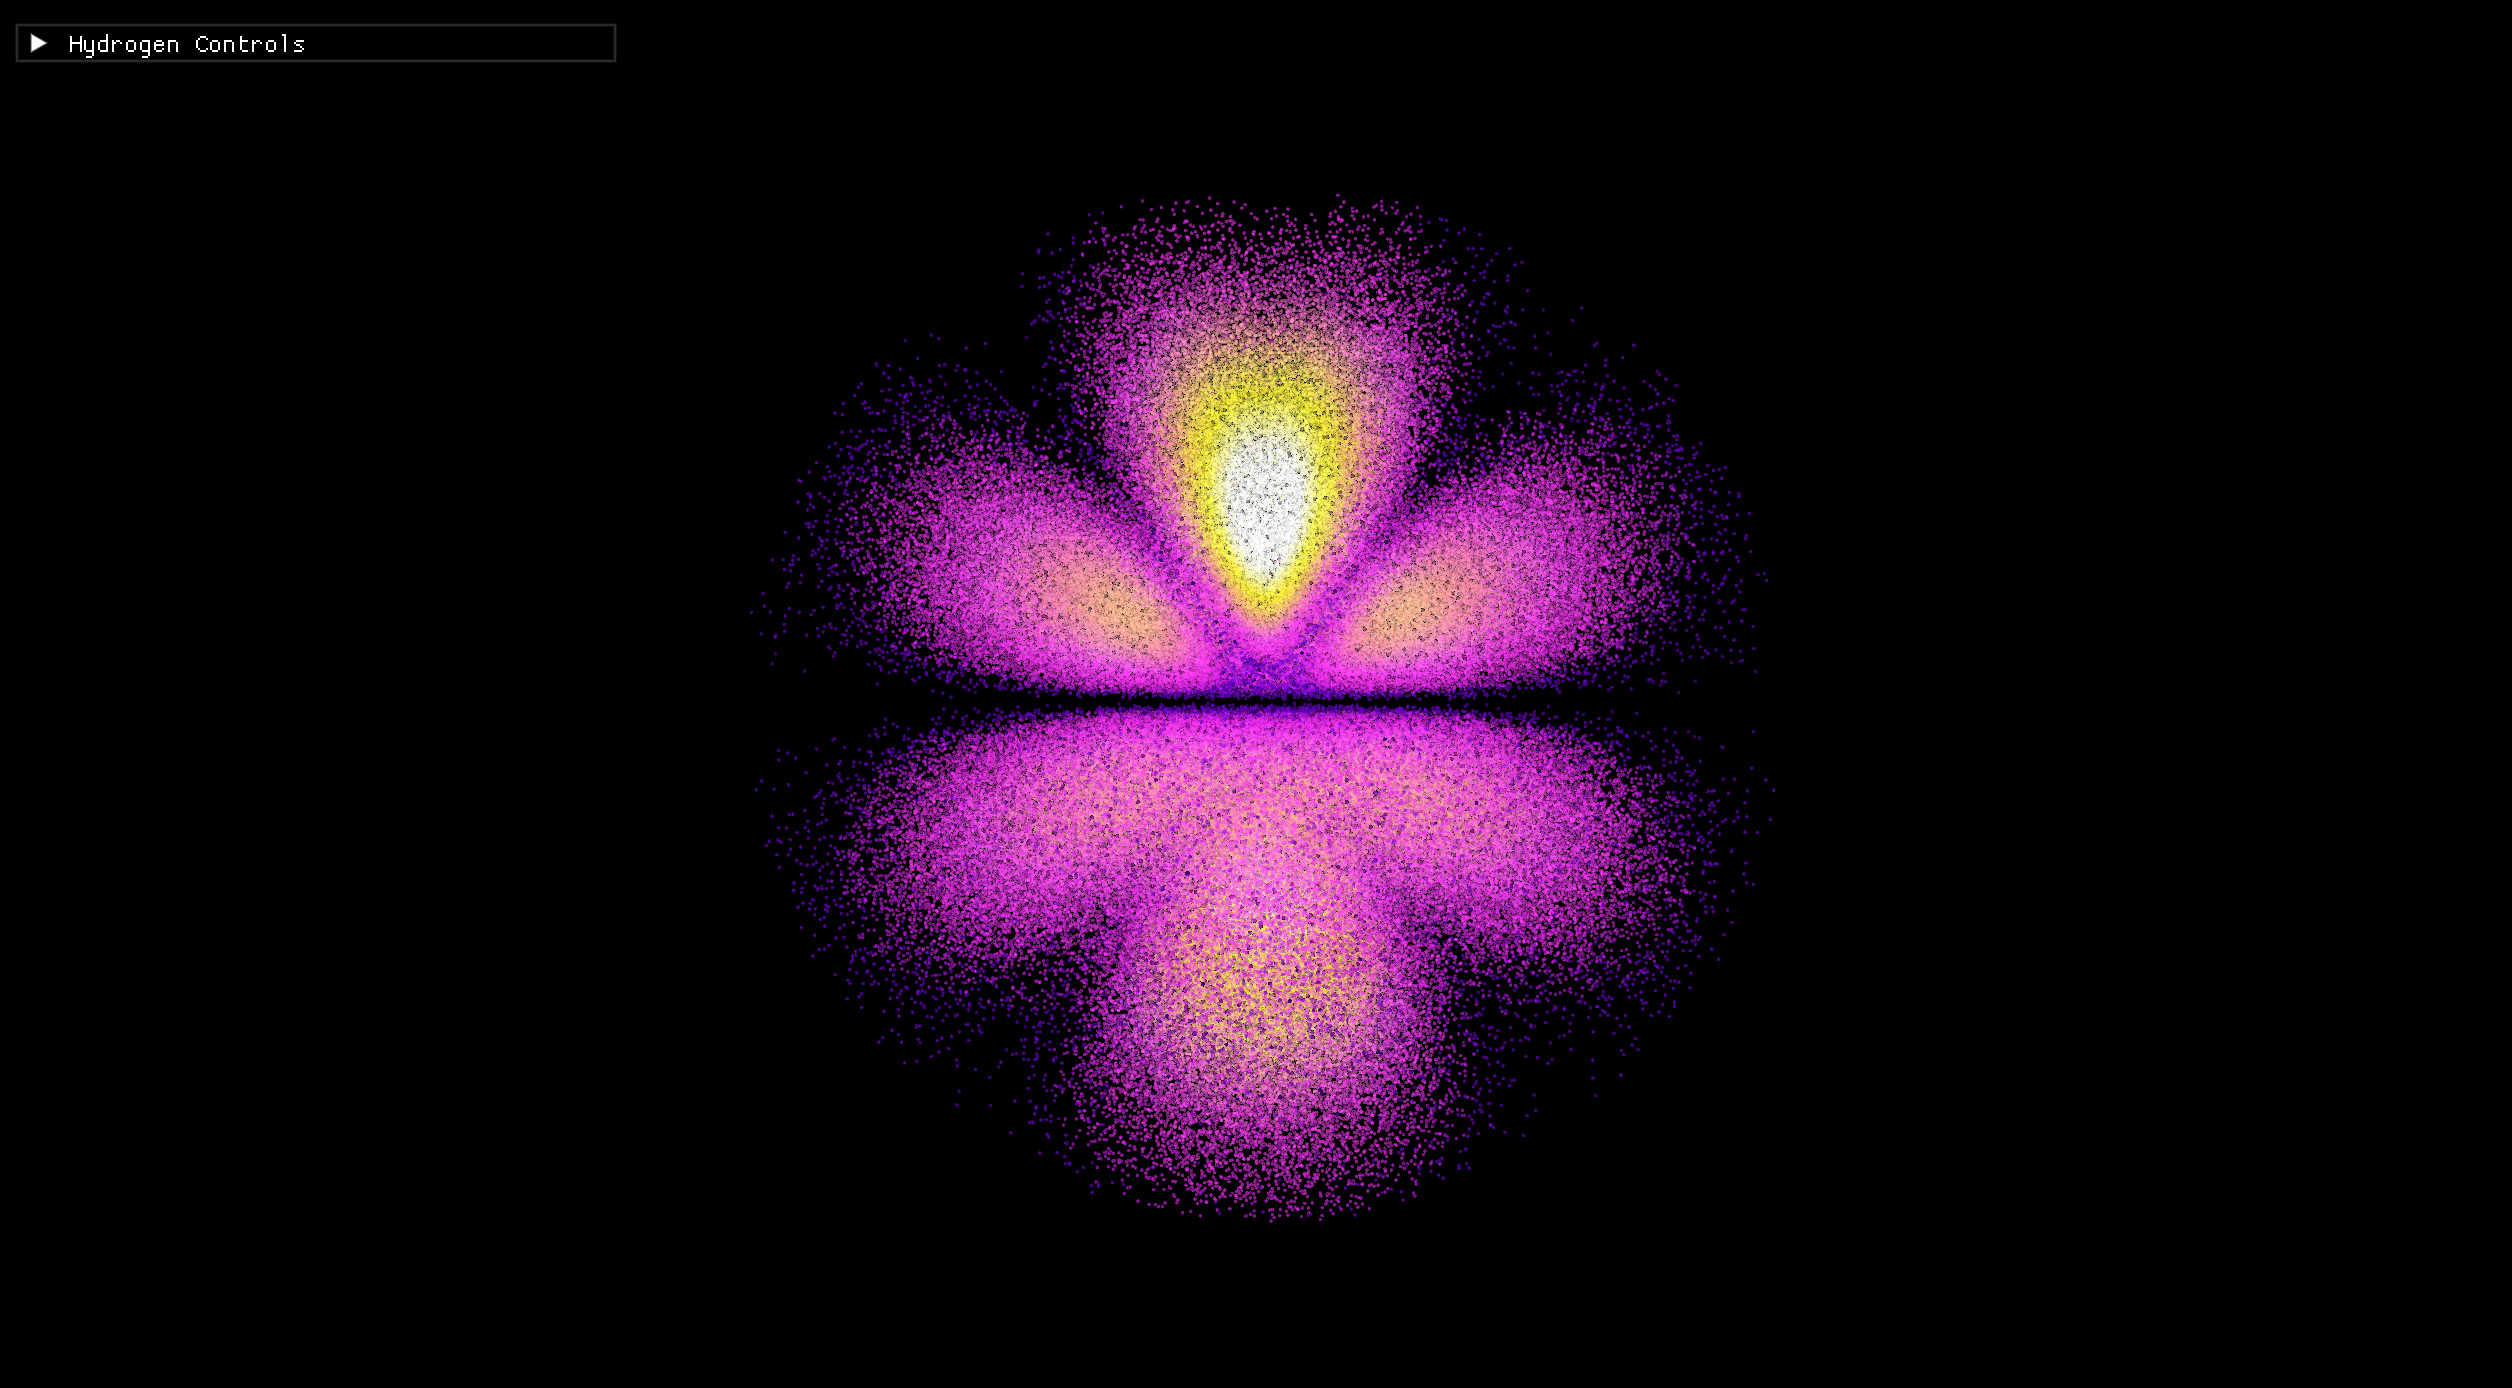
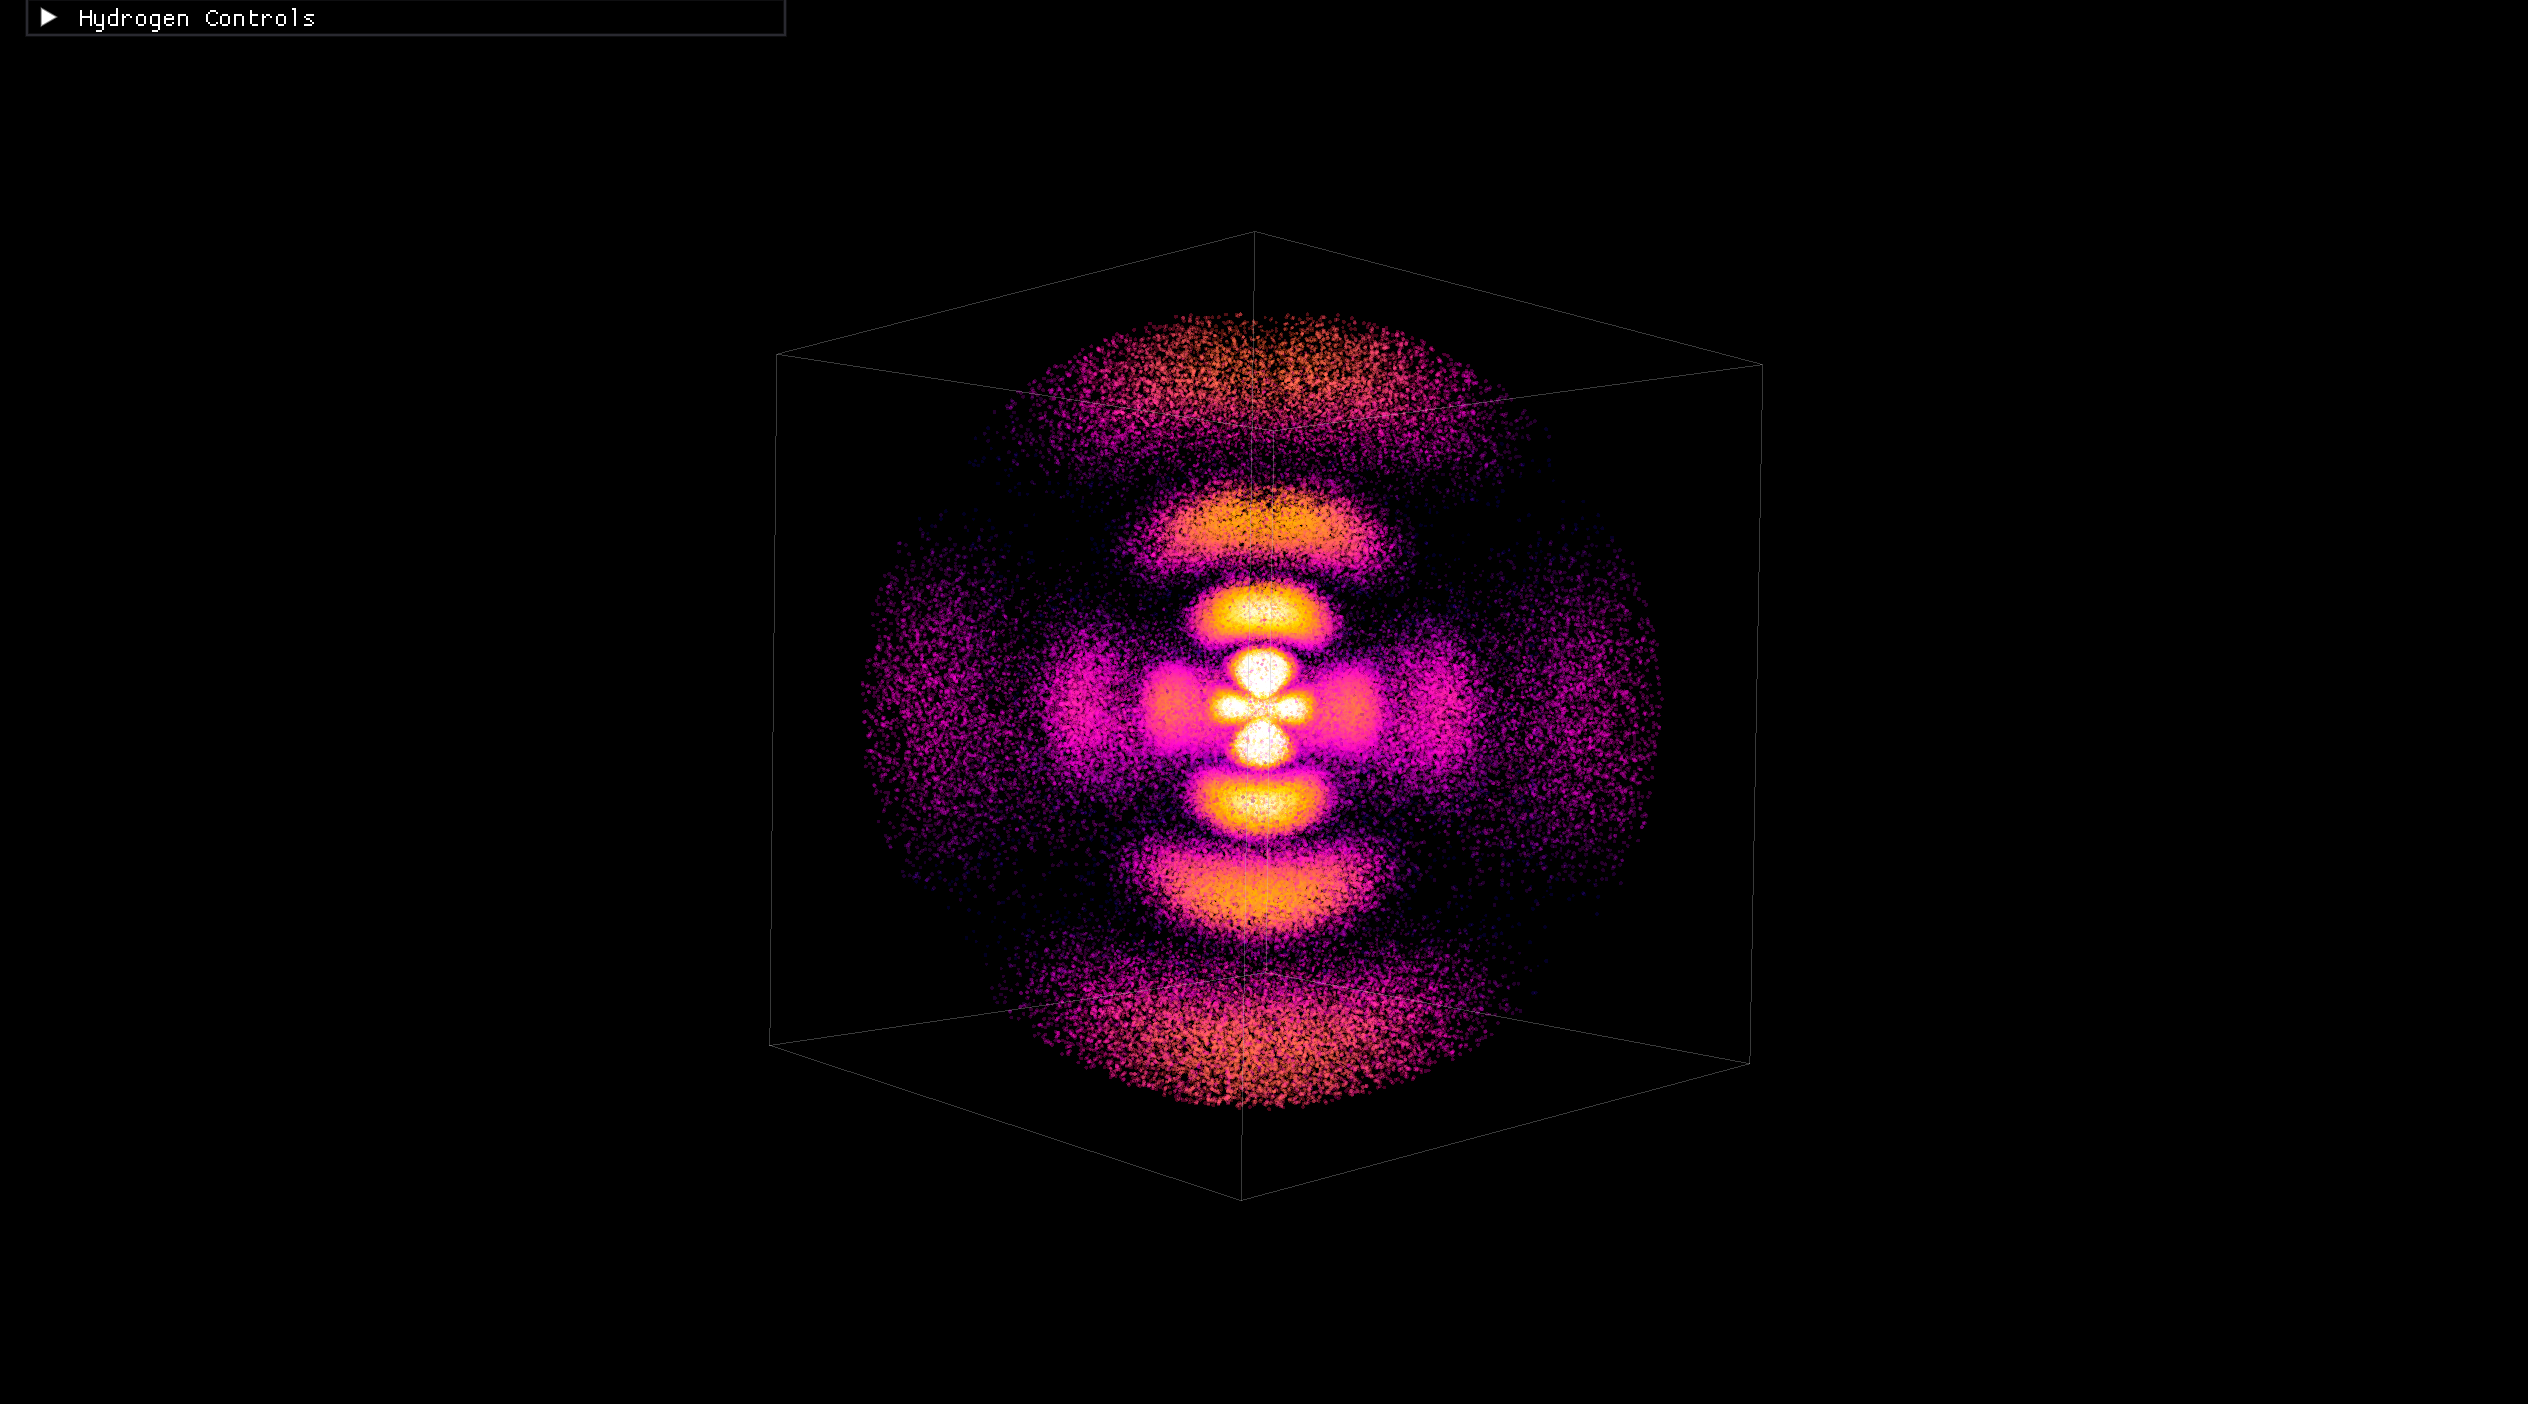
Update hydrogen project screenshots

Changed region(s): [[0.3105, 0.1549, 0.6831, 0.8674], [0.0, 0.0, 0.2484, 0.062]]

diff --git a/index.html b/index.html
@@ -45,7 +45,7 @@
 
             <p>
               A real-time C++ and OpenGL visualization of hydrogen atom
-              wavefunctions with ray-traced/Kavan-style particle rendering,
+              wavefunctions with ray-traced particle rendering,
               polished visual presets, volume ray marching, and slicing/clipping
               tools.
             </p>
@@ -77,26 +77,26 @@
           </div>
 
           <img
-            src="assets/screenshots/gold.png"
-            alt="Hydrogen Quantum Simulator gold orbital visualization"
+            src="assets/screenshots/heatmap.png"
+            alt="Hydrogen Quantum Simulator heat map orbital visualization"
             class="project-image"
-            onclick="openModal('assets/screenshots/gold.png')"
+            onclick="openModal('assets/screenshots/heatmap.png')"
           />
 
           <div class="project-gallery">
             <button onclick="openModal('assets/screenshots/gold.png')">
-              <img src="assets/screenshots/gold.png" alt="Gold color map" />
+              <img src="assets/screenshots/gold.png" alt="Gold color map" loading="lazy" />
               <span>Gold</span>
             </button>
 
             <button onclick="openModal('assets/screenshots/viridis.png')">
-              <img src="assets/screenshots/viridis.png" alt="Viridis color map" />
+              <img src="assets/screenshots/viridis.png" alt="Viridis color map" loading="lazy" />
               <span>Viridis</span>
             </button>
 
-            <button onclick="openModal('assets/screenshots/heatmap.png')">
-              <img src="assets/screenshots/heatmap.png" alt="Heat map color map" />
-              <span>Heat Map</span>
+            <button onclick="openModal('assets/screenshots/violet.png')">
+              <img src="assets/screenshots/violet.png" alt="Violet color map" loading="lazy" />
+              <span>Violet</span>
             </button>
           </div>
         </article>
@@ -228,7 +228,7 @@
 
       <img
         id="modalImage"
-        src="assets/screenshots/gold.png"
+        src="assets/screenshots/heatmap.png"
         alt="Expanded project preview"
       />
     </div>